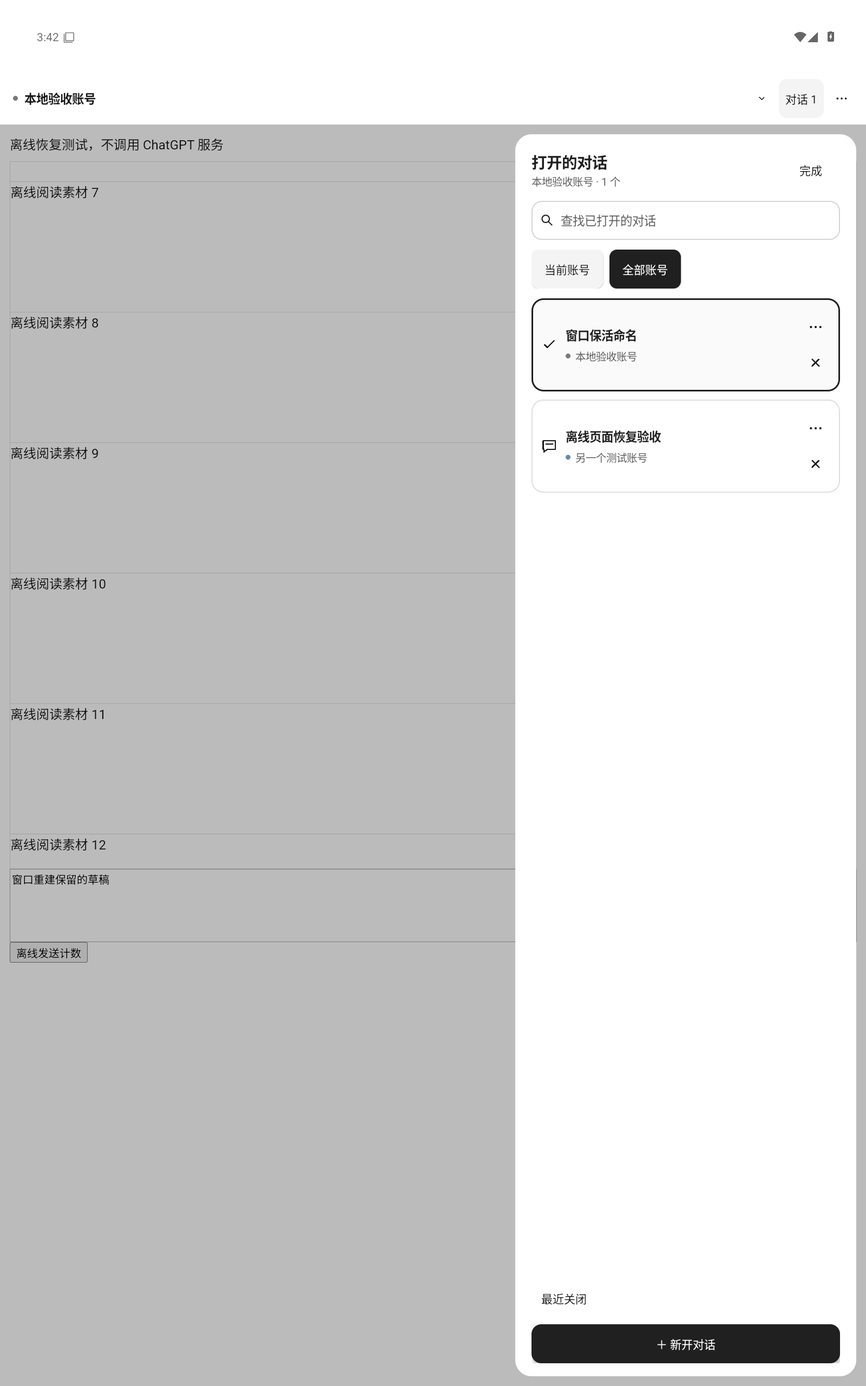
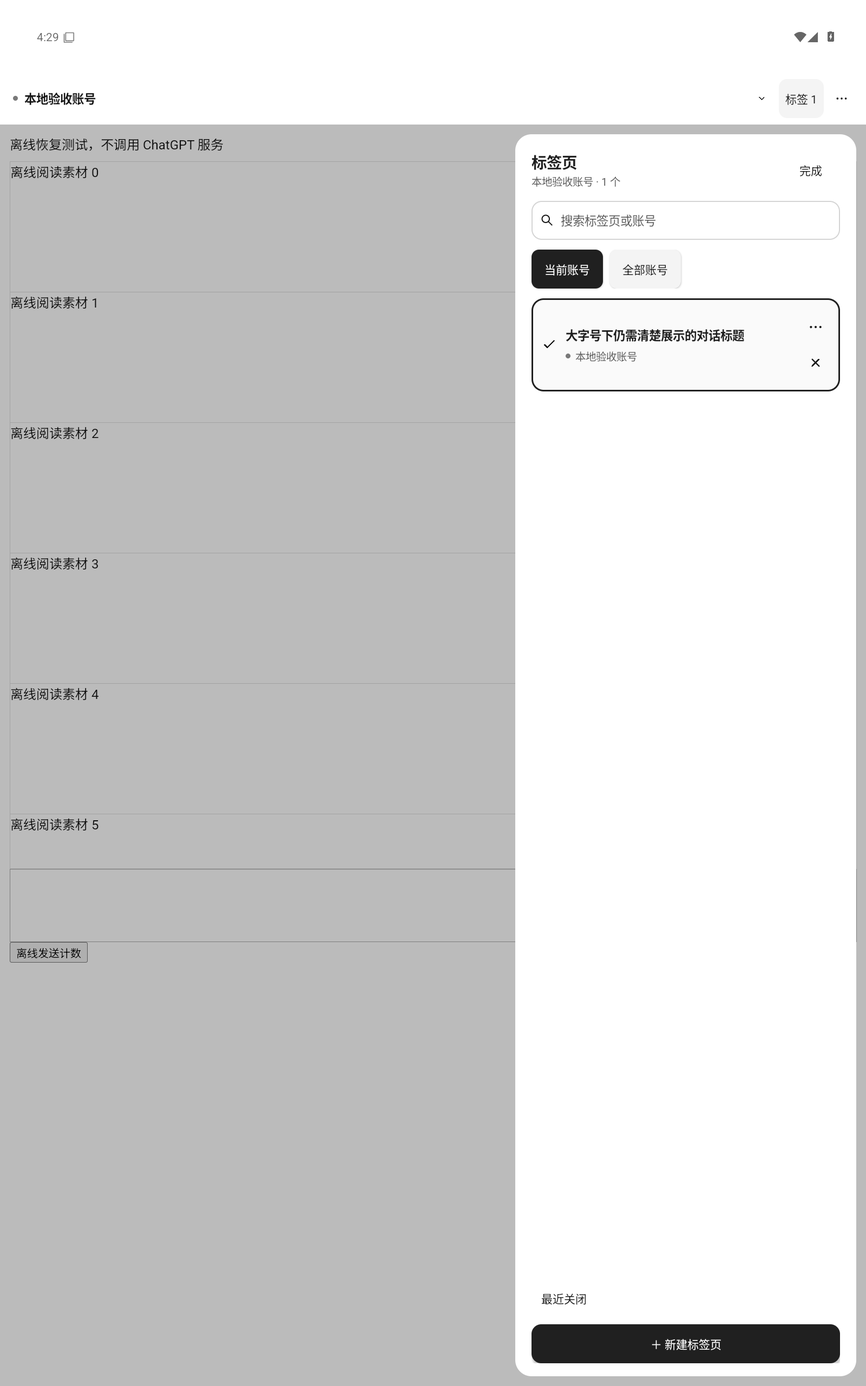
Publish Android alpha.19 and prepare per-platform website downloads

diff --git a/site/index.html b/site/index.html
@@ -74,7 +74,7 @@
         <div class="hero-topline">
           <span><i class="status-dot"></i> PERSONAL WORKSPACE, REDEFINED.</span
           ><span class="hero-build"
-            >CHATGPT STUDIO · v3.0.0-alpha.18 / MAC · WINDOWS · ANDROID <span>↗</span></span
+            >CHATGPT STUDIO · MAC / WINDOWS v3.0.0-alpha.18 · ANDROID v3.0.0-alpha.19 <span>↗</span></span
           >
         </div>
         <div class="hero-grid">
@@ -243,7 +243,7 @@
           </div>
           <div class="stage-caption">
             <span id="product-caption"
-              >Windows · 已安装客户端 / 未登录 ChatGPT</span
+              >Windows · 历史 alpha.11 实际窗口 / 未登录 ChatGPT</span
             ><span>NO ADDRESS BAR. JUST YOUR WORKSPACE.</span>
           </div>
         </div>
@@ -427,18 +427,18 @@
             <article class="download-card" data-os="android">
               <div class="download-card-top">
                 <svg class="os-icon"><use href="#android" /></svg
-                ><span class="version">v3.0.0-alpha.18</span>
+                ><span class="version">v3.0.0-alpha.19</span>
               </div>
               <h3>Android <span>手机 / 平板</span></h3>
               <p class="system-requirement">
                 Android 9+ · 支持多档案的 WebView
               </p>
               <p class="platform-description">
-                直接进入网页，对话清单按需展开。<br />独立账号、资产工作台与草稿恢复。
+                直接进入网页，标签管理按需展开。<br />独立账号、资产工作台与草稿恢复。
               </p>
               <a
                 class="button button-platform"
-                href="https://github.com/ForceMind/ChatGPT/releases/download/v3.0.0-alpha.18/ChatGPT-Profiles-3.0.0-alpha.18-android.apk"
+                href="https://github.com/ForceMind/ChatGPT/releases/download/v3.0.0-alpha.19/ChatGPT-Profiles-3.0.0-alpha.19-android.apk"
                 ><span>下载 APK 安装包</span><svg><use href="#download" /></svg
               ></a>
               <div class="download-secondary">
@@ -446,7 +446,7 @@
               </div>
               <details class="accelerated-download">
                 <summary>国内用户加速下载 <span aria-hidden="true">+</span></summary>
-                <div class="accelerated-links"><a href="https://gh-proxy.org/https://github.com/ForceMind/ChatGPT/releases/download/v3.0.0-alpha.18/ChatGPT-Profiles-3.0.0-alpha.18-android.apk" rel="noopener noreferrer" referrerpolicy="no-referrer">APK 安装包 <span aria-hidden="true">↗</span></a></div>
+                <div class="accelerated-links"><a href="https://gh-proxy.org/https://github.com/ForceMind/ChatGPT/releases/download/v3.0.0-alpha.19/ChatGPT-Profiles-3.0.0-alpha.19-android.apk" rel="noopener noreferrer" referrerpolicy="no-referrer">APK 安装包 <span aria-hidden="true">↗</span></a></div>
                 <p>通过第三方 gh-proxy.org 下载；原始下载入口保留。安装前请核对下方 SHA-256，加速服务可能暂时不可用。</p>
               </details>
               <div class="platform-note">
@@ -457,7 +457,7 @@
                 <summary>版本说明与文件校验 <span>+</span></summary>
                 <p>
                   <a
-                    href="https://github.com/ForceMind/ChatGPT/releases/tag/v3.0.0-alpha.18"
+                    href="https://github.com/ForceMind/ChatGPT/releases/tag/v3.0.0-alpha.19"
                     target="_blank"
                     rel="noopener noreferrer"
                     >查看发布说明 ↗</a
@@ -467,11 +467,11 @@
                   <span>APK · SHA-256</span
                   ><button
                     type="button"
[2 lines of base64/hex data omitted]
                   >
                     复制</button
                   ><code
-                    >3d3bda26cf4cd0b699a94a0c6ae17aa86a185cd15c342e8338fbffd32eaf460f</code
+                    >0e65cd85162b6cbab005e5d571e9856f91fc7dae1d2b4437426cebd85bc9e47f</code
                   >
                 </div>
               </details>
@@ -552,7 +552,8 @@
           <li data-milestone="studio-alpha16"><div class="milestone-version"><strong>ChatGPT Studio</strong>2026.10.24 · 三端 alpha.16</div><div class="milestone-copy"><h3>新名字，继续已有的工作。</h3><p>三端统一名称。桌面包含七阶段文件任务、富文本写入校验、资产双击与右键管理；Android 补齐系统图标适配。保留原应用标识、加密身份和登录数据目录，安装文件中的旧名称用于升级兼容。通过平台 CI、Mac 完整 ZIP 安装与 Windows 安装 / 退出 / 卸载保留数据检查；Android 沿用固定证书。真实账号附件发送与 Android 首页 / 真机流程仍待人工验收。</p><a href="https://github.com/ForceMind/ChatGPT/releases/tag/v3.0.0-alpha.16" target="_blank" rel="noopener noreferrer">查看 alpha.16 发布记录 ↗</a></div><span class="milestone-status">公开预发布</span></li>
           <li data-milestone="studio-alpha17"><div class="milestone-version"><strong>标签与文件工作空间</strong>2026.10.25 · 三端 alpha.17</div><div class="milestone-copy"><h3>页面留在原处，文件有清楚的去向。</h3><p>Android 上线手机 / 平板卡片总览、账号筛选、搜索与标签管理，窗口重建保留网页，加入可选的通知后台任务和保活诊断；修正隐藏标签的执行节流。桌面完善交互 HTML、音视频、文本 / 代码与系统应用打开。全部 120 个 Skill 定义及代表性附件流程完成隔离检查；兼容内核下完成 8 页 330 秒、锁屏 / 省电 / 网络与进程重启恢复。保留既有账号与签名身份，实站和厂商真机仍单独验收。</p><a href="https://github.com/ForceMind/ChatGPT/releases/tag/v3.0.0-alpha.17" target="_blank" rel="noopener noreferrer">查看 alpha.17 发布记录 ↗</a></div><span class="milestone-status">公开预发布</span></li>
           <li data-milestone="studio-alpha18"><div class="milestone-version"><strong>清晰界面与沉浸对话</strong>2026.10.25 · 三端 alpha.18</div><div class="milestone-copy"><h3>专注网页，需要时再展开工具。</h3><p>三端统一 App 自有界面的字号与对比度，桌面窄窗详情使用抽屉；恢复 Mac 顶部菜单栏图标。Android 默认进入网页，仅保留账号、对话和更多，对话清单按需展开，边框完整，最近关闭用文字说明；移除首页底栏和普通菜单的开发诊断。前台切换已加载页面复用原网页、草稿、滚动和生成上下文，无需后台服务。保留账号数据和签名身份，进程终止后仍需加载一次再恢复，实站与厂商真机另行验收。</p><a href="https://github.com/ForceMind/ChatGPT/releases/tag/v3.0.0-alpha.18" target="_blank" rel="noopener noreferrer">查看 alpha.18 发布记录 ↗</a></div><span class="milestone-status">公开预发布</span></li>
-        </ol><p class="milestone-note">当前三端公开预发布版均为 alpha.18。Android 继续使用 System WebView，版本达标之外还需多档案能力；独立环境 PoC 未替换现有登录空间。真实账号业务与真机验收另行记录。</p>
+          <li data-milestone="studio-alpha19"><div class="milestone-version"><strong>Android 最小文案统一</strong>2026.10.26 · Android alpha.19</div><div class="milestone-copy"><h3>保持原有体验，把标签说清楚。</h3><p>将 App 外壳中的“对话 N”统一为“标签 N”，管理面板、搜索、新建、固定、重命名和关闭使用“标签页”称呼。账号与入口位置、布局、原 ChatGPT 网页、登录和恢复逻辑沿用 alpha.18。手机和平板的三档字号、附件夹具和标签复用检查通过；沿用同一 Android 证书。Mac 与 Windows 继续提供 alpha.18，真实账号与厂商真机验收单独记录。</p><a href="https://github.com/ForceMind/ChatGPT/releases/tag/v3.0.0-alpha.19" target="_blank" rel="noopener noreferrer">查看 Android alpha.19 发布记录 ↗</a></div><span class="milestone-status">公开预发布</span></li>
+        </ol><p class="milestone-note">macOS 与 Windows 的公开预发布版为 alpha.18，Android 为 alpha.19。各平台按下载卡片标注独立更新。Android 继续使用 System WebView，版本达标之外还需多档案能力；独立环境 PoC 未替换现有登录空间。真实账号业务与真机验收另行记录。</p>
       </section>
 
       <section
@@ -627,8 +628,8 @@
             </p>
           </details>
           <details>
-            <summary>Android 切换对话会重新加载吗？<span>+</span></summary>
-            <p>App 运行期间切换已打开的对话，会复用原网页，保留草稿、阅读位置和正在生成的上下文，无需开启后台服务。打开对话清单也不会卸载当前网页。真正终止进程后需重新加载，再恢复已保存的草稿与位置；系统回收或网页服务本身也可能中断连接，应用不会自动重发消息。</p>
+            <summary>Android 切换标签页会重新加载吗？<span>+</span></summary>
+            <p>App 运行期间切换已打开的标签页，会复用原网页，保留草稿、阅读位置和正在生成的上下文，无需开启后台服务。打开对话清单也不会卸载当前网页。真正终止进程后需重新加载，再恢复已保存的草稿与位置；系统回收或网页服务本身也可能中断连接，应用不会自动重发消息。</p>
           </details>
           <details>
             <summary>如何校验下载、更新或清除账号？<span>+</span></summary>

diff --git a/desktop/tests/branding.e2e.ts b/desktop/tests/branding.e2e.ts
@@ -38,11 +38,20 @@ test('Studio website renders canonical pages and preserves legacy update feeds',
  const origin=publicOrigin||'http://127.0.0.1:'+address.port,entry=path.join(root,'main.cjs');
  const feed=JSON.parse(readFileSync(path.join(site,'updates/macos.json'),'utf8'));expect(validManifest(feed)).toBe(true);
  const release=JSON.parse(readFileSync(path.join(desktop,'../docs/releases',feed.version+'.json'),'utf8'));
+ const androidVersion=readFileSync(path.join(site,'index.html'),'utf8').match(/<article\b[^>]*data-os="android"[^>]*>[\s\S]*?<span class="version">v([^<]+)<\/span>/)?.[1];
+ expect(androidVersion).toMatch(/^\d+\.\d+\.\d+-alpha\.\d+$/);
+ const android=JSON.parse(readFileSync(path.join(desktop,'../docs/releases',androidVersion+'-android.json'),'utf8'));
+ expect(android.version).toBe(androidVersion);
+ release.artifacts=release.artifacts.filter((item:{platform:string})=>item.platform!=='android').concat({...android.artifact,platform:'android',url:'https://github.com/ForceMind/ChatGPT/releases/download/v'+android.version+'/'+android.artifact.file});
+ expect(release.artifacts).toHaveLength(5);
+ const platformVersions={macos:feed.version,windows:feed.version,android:android.version};
  writeFileSync(entry,"const {app,BrowserWindow}=require('electron');require('node:fs').mkdirSync(process.env.STUDIO_SITE_DATA,{recursive:true});app.setPath('userData',process.env.STUDIO_SITE_DATA);app.whenReady().then(()=>{const win=new BrowserWindow({width:1440,height:1000,webPreferences:{sandbox:true,contextIsolation:true,nodeIntegration:false}});win.loadURL(process.env.STUDIO_SITE_ORIGIN)});");
  try{
   app=await electron.launch({args:[entry],env:{...process.env,STUDIO_SITE_DATA:path.join(root,'data'),STUDIO_SITE_ORIGIN:origin}});const page=await app.firstWindow();const errors:string[]=[];page.on('pageerror',error=>errors.push(error.message));
   await expect(page).toHaveTitle(/ChatGPT Studio/);await expect(page.getByRole('link',{name:'ChatGPT Studio 首页',exact:true})).toBeVisible();
   await expect(page.locator('.hero-build')).toContainText(feed.version);
+  await expect(page.locator('.hero-build')).toContainText(android.version);
+  for(const [platform,version] of Object.entries(platformVersions))await expect(page.locator('article[data-os="'+platform+'"] .version')).toHaveText('v'+version);
   const canonical='https://chatgpt-studio.pages.dev';
   if(publicOrigin){
    await expect.poll(()=>new URL(page.url()).origin).toBe(canonical);
@@ -76,7 +85,7 @@ test('Studio website renders canonical pages and preserves legacy update feeds',
   await page.screenshot({path:info.outputPath('studio-downloads-1440.png')});
   const remoteFeed=await app.evaluate(async({session},origin)=>{const response=await session.fromPartition('studio-feed-public-check').fetch(origin+'/updates/macos.json',{credentials:'omit',redirect:'error',headers:{Accept:'application/json'}});return{status:response.status,contentType:response.headers.get('content-type'),text:await response.text()};},origin);
   expect(remoteFeed.status).toBe(200);expect(remoteFeed.contentType).toContain('application/json');expect(JSON.parse(remoteFeed.text)).toEqual(feed);
-  writeFileSync(info.outputPath('site-verification.json'),JSON.stringify({origin,landedOrigin:new URL(page.url()).origin,version:feed.version,downloadFiles:release.artifacts.length,acceleratedFiles:release.artifacts.length,widths:[1440,390],checksumCopy:true,credentiallessElectronFeed:true,legacyPageRedirect:!!publicOrigin&&publicOrigin!==canonical,errors}));
+  writeFileSync(info.outputPath('site-verification.json'),JSON.stringify({origin,landedOrigin:new URL(page.url()).origin,platformVersions,macosUpdateVersion:feed.version,downloadFiles:release.artifacts.length,acceleratedFiles:release.artifacts.length,widths:[1440,390],checksumCopy:true,credentiallessElectronFeed:true,legacyPageRedirect:!!publicOrigin&&publicOrigin!==canonical,errors}));
   expect(errors).toEqual([]);
  }finally{await app?.close().catch(()=>{});server.closeAllConnections();await new Promise<void>(r=>server.close(()=>r()));rmSync(root,{recursive:true,force:true});}
 });

diff --git a/site/app.js b/site/app.js
@@ -16,8 +16,8 @@ const platforms = {
   },
   android: {
     image: "android-tabs.png",
-    caption: "Android alpha.18 · 原生对话清单 / 模拟器 · 本地测试账号",
-    alt: "Android alpha.18 客户端原生对话清单截图：账号筛选、搜索、完整边框、最近关闭和新开对话。背后网页为本地测试素材，非真实 ChatGPT 首页。",
+    caption: "Android alpha.19 · 原生标签页 / 模拟器 · 本地测试账号",
+    alt: "Android alpha.19 客户端原生标签页截图：账号筛选、搜索、完整边框、最近关闭和新建标签页。背后网页为本地测试素材，非真实 ChatGPT 首页。",
     width: 1080,
     height: 2400,
     kind: "ANDROID · ACTUAL APP / LOCAL FIXTURES",
@@ -25,9 +25,9 @@ const platforms = {
 };
 const androidViews = {
   tabs: platforms.android,
-  tablet: {...platforms.android,image:"android-tablet-tabs.png",width:1600,height:2560,caption:"Android alpha.18 · 平板原生对话清单 / 模拟器 · 本地测试账号",alt:"Android alpha.18 平板原生右侧对话清单，含账号筛选、搜索和管理入口；背后网页为测试素材，并非真实 ChatGPT 首页。"},
-  assets: {...platforms.android,image:"android-assets.png",caption:"Android alpha.18 · 资产库 / 模拟器 · 本地示例文件",alt:"Android alpha.18 资产库原生截图：独立账号下的本地 HTML 示例文件，带搜索、导入和交给 GPT 入口；采集于 Android 15 模拟器。"},
-  skills: {...platforms.android,image:"android-skills.png",caption:"Android alpha.18 · 120 个 Skill / 模拟器 · 本地示例账号",alt:"Android 客户端能力库实际截图：120 个项目 Skill、原生搜索与任务说明；采集于 Android 15 模拟器，尚无预置智能体。"},
+  tablet: {...platforms.android,image:"android-tablet-tabs.png",width:1600,height:2560,caption:"Android alpha.19 · 平板原生标签页 / 模拟器 · 本地测试账号",alt:"Android alpha.19 平板原生右侧标签列表，含账号筛选、搜索和管理入口；背后网页为测试素材，并非真实 ChatGPT 首页。"},
+  assets: {...platforms.android,image:"android-assets.png",caption:"Android alpha.19 · 资产库 / 模拟器 · 本地示例文件",alt:"Android alpha.19 资产库原生截图：独立账号下的本地 HTML 示例文件，带搜索、导入和交给 GPT 入口；采集于 Android 15 模拟器。"},
+  skills: {...platforms.android,image:"android-skills.png",caption:"Android alpha.19 · 120 个 Skill / 模拟器 · 本地示例账号",alt:"Android 客户端能力库实际截图：120 个项目 Skill、原生搜索与任务说明；采集于 Android 15 模拟器，尚无预置智能体。"},
 };
 const tabs = [...document.querySelectorAll("[data-platform]")];
 const image = document.querySelector("#product-image");

diff --git a/android/ui-preview/index.html b/android/ui-preview/index.html
@@ -22,7 +22,7 @@
 <div class="app-toast" id="app-toast" role="status" hidden></div>
 <div class="system-gesture" aria-hidden="true"><i></i></div>
 </section>
-<aside class="design-notes"><p class="eyebrow">以已发布的 alpha.18 为基线</p><h1>保留布局，只改必要细节。</h1><p>账号、标签入口和更多保持原位；列表、最近关闭及已有工具入口沿用。</p><div class="try-note"><strong>这轮的最小差异</strong><ul><li>“对话 2”改为“标签 2”。</li><li>“打开的对话”改为“标签页”。</li><li>标签管理的搜索、新建、关闭统一叫“标签页”。</li></ul></div><p class="scope">ChatGPT 首页、侧栏和输入框继续使用原网页。这份预览默认只标示网页区域；需要查看交互背景时，可在外面的评审工具开启“显示网页示意”。</p><p class="scope">本轮尚未修改安装版或线上发布。示例账号与文件只用于评审，不会登录、上传或发送。</p><p id="preview-feedback" role="status"></p></aside>
+<aside class="design-notes"><p class="eyebrow">以已发布的 alpha.18 为基线</p><h1>保留布局，只改必要细节。</h1><p>账号、标签入口和更多保持原位；列表、最近关闭及已有工具入口沿用。</p><div class="try-note"><strong>这轮的最小差异</strong><ul><li>“对话 2”改为“标签 2”。</li><li>“打开的对话”改为“标签页”。</li><li>标签管理的搜索、新建、关闭统一叫“标签页”。</li></ul></div><p class="scope">ChatGPT 首页、侧栏和输入框继续使用原网页。这份预览默认只标示网页区域；需要查看交互背景时，可在外面的评审工具开启“显示网页示意”。</p><p class="scope">标签文案已随 Android alpha.19 发布。这里仍是合成评审稿，示例账号与文件不会登录、上传或发送。</p><p id="preview-feedback" role="status"></p></aside>
 </main>
 </body>
 </html>

diff --git a/android/ui-preview/app.js b/android/ui-preview/app.js
@@ -83,4 +83,4 @@ document.addEventListener('keydown',event=>{
  if(event.key==='Tab'&&!$('#overlay').hidden){const controls=[...$('#overlay').querySelectorAll('button,input,textarea,select')].filter(e=>e.getClientRects().length);if(event.shiftKey&&document.activeElement===controls[0]){event.preventDefault();controls.at(-1)?.focus();}else if(!event.shiftKey&&document.activeElement===controls.at(-1)){event.preventDefault();controls[0]?.focus();}}
 });
 const streamTimer=setInterval(()=>{const tab=tabs.find(t=>t.id==='p2');if(!tab||tab.tick>=5){clearInterval(streamTimer);return;}tab.tick++;tab.answer+='\n\n'+['先确认每一段内容要回答哪个问题。','把主要操作放在容易找到的位置。','正文和辅助信息使用清楚的层次。','长内容可以滚动，不靠缩小文字容纳。','最后检查实际使用时的完整流程。'][tab.tick-1];const answer=pages.get(tab.id)?.querySelector('.assistant-message');if(answer)answer.textContent=tab.answer;},2400);
-renderHeader();renderPages();feedback('这是设计评审预览。仅预览局部文案调整，安装版和现有登录数据没有改变。');
+renderHeader();renderPages();feedback('这是设计评审预览。标签文案已随 Android alpha.19 发布；本页仅演示外壳，不连接真实账号。');

diff --git a/README.en.md b/README.en.md
@@ -4,7 +4,7 @@
   <p>Independent accounts. Immersive browsing. Local asset workflows.</p>
   <p><a href="README.md">简体中文</a> · <strong>English</strong></p>
   <p>
-    <a href="https://github.com/ForceMind/ChatGPT/releases/tag/v3.0.0-alpha.18"><img alt="Latest prerelease" src="https://img.shields.io/github/v/release/ForceMind/ChatGPT?include_prereleases&amp;sort=semver&amp;label=pre-release&amp;labelColor=171717&amp;color=555555" /></a>
+    <a href="https://github.com/ForceMind/ChatGPT/releases/tag/v3.0.0-alpha.19"><img alt="Latest prerelease" src="https://img.shields.io/github/v/release/ForceMind/ChatGPT?include_prereleases&amp;sort=semver&amp;label=pre-release&amp;labelColor=171717&amp;color=555555" /></a>
     <a href="https://github.com/ForceMind/ChatGPT/actions/workflows/android.yml"><img alt="Android CI" src="https://img.shields.io/github/actions/workflow/status/ForceMind/ChatGPT/android.yml?branch=main&amp;label=Android%20CI&amp;labelColor=171717&amp;color=555555" /></a>
     <img alt="Electron 44.9" src="https://img.shields.io/badge/Electron-44.9-555555?logo=electron&amp;logoColor=white&amp;labelColor=171717" />
     <img alt="Java 17" src="https://img.shields.io/badge/Java-17-555555?labelColor=171717" />
@@ -15,7 +15,7 @@
 
 ChatGPT Studio brings independent ChatGPT account spaces, tabs, downloaded assets, previews, conversions and reviewed file tasks into one application. Launch directly into the website with a white, gray and black interface and no address bar. Each device signs in independently; no OpenAI API key is required.
 
-> Previously named **ChatGPT Profiles**. The current public prerelease is **3.0.0-alpha.18** on all three supported platforms. Legacy filenames, internal identifiers and data locations are retained for upgrade compatibility.
+> Previously named **ChatGPT Profiles**. The current public prereleases are **3.0.0-alpha.18** for macOS/Windows and **3.0.0-alpha.19** for Android. Platforms update independently. Legacy filenames, internal identifiers and data locations are retained for upgrade compatibility.
 
 ![Actual historical macOS window, before the rename](docs/images/macos-immersive.png)
 
@@ -62,7 +62,7 @@ Devices do not synchronize sign-in credentials. Alternative Android engines rema
 | --- | --- | --- | --- |
 | macOS · Apple Silicon | 3.0.0-alpha.18 | [DMG](https://github.com/ForceMind/ChatGPT/releases/download/v3.0.0-alpha.18/ChatGPT-Profiles-3.0.0-alpha.18-mac-arm64.dmg) · [ZIP](https://github.com/ForceMind/ChatGPT/releases/download/v3.0.0-alpha.18/ChatGPT-Profiles-3.0.0-alpha.18-mac-arm64.zip) | macOS 13+ |
 | Windows · x64 | 3.0.0-alpha.18 | [EXE](https://github.com/ForceMind/ChatGPT/releases/download/v3.0.0-alpha.18/ChatGPT-Profiles-3.0.0-alpha.18-windows-x64-setup.exe) · [Portable ZIP](https://github.com/ForceMind/ChatGPT/releases/download/v3.0.0-alpha.18/ChatGPT-Profiles-3.0.0-alpha.18-windows-x64.zip) | Windows 10/11, 64-bit |
-| Android · Phone/tablet | 3.0.0-alpha.18 | [APK](https://github.com/ForceMind/ChatGPT/releases/download/v3.0.0-alpha.18/ChatGPT-Profiles-3.0.0-alpha.18-android.apk) | Android 9+, WebView with multi-profile support |
+| Android · Phone/tablet | 3.0.0-alpha.19 | [APK](https://github.com/ForceMind/ChatGPT/releases/download/v3.0.0-alpha.19/ChatGPT-Profiles-3.0.0-alpha.19-android.apk) | Android 9+, WebView with multi-profile support |
 
 **macOS:** open the DMG and drag the app into Applications. Current packages are ad-hoc signed and not notarized. If macOS blocks the first launch, verify the source/checksum and consult [Apple's installation guidance](https://support.apple.com/en-us/102445).
 
@@ -72,11 +72,15 @@ Devices do not synchronize sign-in credentials. Alternative Android engines rema
 
 The [website](https://chatgpt-studio.pages.dev/) provides GitHub downloads and optional third-party acceleration links. Compare downloads with `SHA256SUMS.txt` in the Release. The current version is a **prerelease**; stable-only tools may report no Latest release. The version badge above includes prereleases, and the table links directly to the published assets.
 
-### What changed in alpha.18
+### Android alpha.19
+
+This update only makes tab terminology consistent. Account controls, layout, navigation, the original ChatGPT webpage and runtime behavior are retained from alpha.18. Tab counts, management, search, new tabs, pinning, renaming and closing now use tab labels. See the [Android build/native verification record](docs/releases/3.0.0-alpha.19-android.json).
+
+### Desktop alpha.18
 
 App-owned desktop UI now uses clearer type and contrast, with 15px body text, 14px supporting text and a 13px label floor. Narrow windows use a details drawer. The macOS menu bar icon is restored for window, account, workbench and update actions.
 
-Android opens directly into the webpage with account, conversations and more controls. A searchable conversation sheet supports pinning, renaming, sorting, closing and restoring recent tabs. Browser-style bottom controls and developer diagnostics are removed from normal menus. Foreground switches reuse the original webpage, draft, scroll and generation context without a background service. Window recreation reuses pages; process termination requires reloading before restoring saved drafts and positions. See the [release manifest](docs/releases/3.0.0-alpha.18.json) for exact binaries, sources and signatures.
+Android opens directly into the webpage with account, tabs and more controls. A searchable tab sheet supports pinning, renaming, sorting, closing and restoring recent tabs. Browser-style bottom controls and developer diagnostics are removed from normal menus. Foreground switches reuse the original webpage, draft, scroll and generation context without a background service. Window recreation reuses pages; process termination requires reloading before restoring saved drafts and positions. See the [desktop release manifest](docs/releases/3.0.0-alpha.18.json) and [Android alpha.19 record](docs/releases/3.0.0-alpha.19-android.json) for exact binaries, sources and signatures.
 
 macOS checks for updates at launch and at noon in Shanghai time. After confirmation it downloads and verifies a complete ZIP. Installation can run immediately, on exit or after the app has been idle under the configured safeguards. Native application updates require a restart; delta updates are not implemented. Windows and Android currently update manually.
 
@@ -178,6 +182,7 @@ Cloudflare Pages uses Direct Upload; a Git push does not deploy the site automat
 | --- | --- |
 | Real macOS account upload/first-message/single-send acceptance | Deferred manual acceptance; isolated flows pass |
 | Android real homepage, accounts, voice/files and vendor devices | Deferred manual acceptance; website images are labeled native fixtures |
+| Android alpha.19 tab terminology | Published; layout/runtime retained; [publication/online record](docs/releases/3.0.0-alpha.19-publication.json) |
 | Alpha.18 installers, immersive Android, readable UI and macOS menu bar | Published; [publication/online record](docs/releases/3.0.0-alpha.18-publication.json) |
 | Windows offline snapshots/auto-updates; complete Android offline snapshots | Future batch |
 | Android per-account locale/timezone engine migration | Separate PoC; regular engine is unchanged |

diff --git a/MACOS_MIGRATION_PLAN.md b/MACOS_MIGRATION_PLAN.md
@@ -730,3 +730,10 @@
 - alpha.19 候选源 cfd2ed667fbc6c8fcf44f9a0854b2b97e1a52c1b 已推送开发分支。构建 40268493816 成功：66 项单元、0 失败 / 错误 / 跳过，Lint 0 错误 / 44 警告。原生 40268559379 成功：Android 15 / WebView 124.0.6367.219，手机和平板各 3 项、0 失败 / 错误 / 跳过；覆盖 1.0 / 1.3 / 2.0 字号、13sp / 4.5:1 / 裁切 / 按钮可达性、原有真实文件夹具与 Activity / 标签复用。两组原始 XML 和字号报告已核对，普通 / 大字号实际截图已查看；不重新声称验证所有系统或真实账号。
 - CI 生成的正式 APK 只在本机以既有证书签名，versionCode 3000019 / alpha.19，包名与显示名、v3 及原证书摘要均验证。APK 7335383 字节，SHA-256 0e65cd85162b6cbab005e5d571e9856f91fc7dae1d2b4437426cebd85bc9e47f；发布包不含独立调试服务器和评审预览。临时官方工具校验后使用，并已移除约 147 MB 逻辑工具文件，私钥未复制或上传。
 - 候选草稿 ID 423861858，目标为同一候选源，https://github.com/ForceMind/ChatGPT/releases/tag/untagged-cf5b69a91e1859ebff2d 。APK 与 SHA256SUMS.txt 两个资产的字节数 / GitHub 服务端摘要均核对。创建后首次列表未返回新草稿，随后只读定位准确 ID 再上传，没有重复创建或覆盖。正式 Release、main 与官网没有更新：main 回读仍为 e783eb5e9dd14213af338313b8799feea16b3d3c，Mac 清单仍为 alpha.18。本批结果集中在 docs/releases/3.0.0-alpha.19-android.json；一张必要原生测试截图已保留，其他临时报告 / APK 缓存在无句柄后清理。原 4187 评审服务继续保留，现有账号、登录和加密恢复数据未访问或修改。
+
+## Android alpha.19 公开发布与官网同步（2026-10-26）
+
+- 用户在完成本机 Mac 更新和剩余范围说明后要求继续。当前迭代先公开已验证的 Android alpha.19 候选并同步下载渠道；不把此阶段等同全部路线图完成，不重做布局或重打其他平台包。Mac / Windows 继续 alpha.18，Mac 更新与旧站兼容 JSON 的基准 SHA-256 均为 8c30c55cc56511c162af21130606ee41220ee12e5985da311c229433eacf60bb，要求逐字节保留。
+- 已重新核对构建 40268493816、原生 40268559379，均成功且 head 为 cfd2ed667fbc6c8fcf44f9a0854b2b97e1a52c1b；公开前验证草稿 ID 423861858、目标源码、APK 与摘要两个资产。该唯一草稿已于 2026-10-26T06:52:18Z 转为公开预发布 https://github.com/ForceMind/ChatGPT/releases/tag/v3.0.0-alpha.19 ，沿用原 7335383 字节 APK 与服务端 SHA-256 0e65cd85162b6cbab005e5d571e9856f91fc7dae1d2b4437426cebd85bc9e47f，没有再打包或签名。
+- 本轮官网只更新 Android 卡片 / 国内加速 / 摘要、四张同源原生 CI 图及里程碑；主视觉说明各平台版本，Mac / Windows 下载仍为 alpha.18。中英文 README 与原评审页状态同步，历史发布记录保留。现有官网测试原来从 Mac 清单版本推导全部五包，已最小调整为保留桌面 manifest 并使用 Android 下载卡版本对应的既有签名收据验证 APK；分别断言三平台版本、五个下载和加速及摘要复制，继续检查 Mac 清单禁重定向。只有网站测试变更，App 源码与包输入不变。
+- Git 同步范围为 ForceMind/ChatGPT 的 codex/macos-assets-workbench，网站 / 说明 / 必要发布收据与对应浏览器测试。先在 Actions 验证源站渲染，通过后正常快进 main 并部署现有 chatgpt-studio Pages 项目；旧站配置与 Mac JSON 不变时不重部署。当前公开 APK 已完成，官网与 main 仍待本轮验证 / 部署，结果将在本记录和 docs/releases/3.0.0-alpha.19-publication.json 更新。

diff --git a/android/ui-preview/README.md b/android/ui-preview/README.md
@@ -1,6 +1,6 @@
 # Android 最小差异评审预览
 
-本目录是基于已发布 alpha.18 的局部调整评审稿。alpha.18 的沉浸布局已经接入原生 App；本轮只统一标签文案，账号、标签入口、更多和列表布局沿用。用户确认后，这组文案已接入 alpha.19 候选，完成 Actions 原生检查和原证书签名，按候选草稿交付。
+本目录是基于 alpha.18 的局部调整评审稿。沉浸布局已接入原生 App；本轮只统一标签文案，账号、标签入口、更多和列表布局沿用。这组文案已随 Android alpha.19 公开预发布，完成 Actions 原生检查并沿用原证书。
 
 默认用留白标示“ChatGPT 网页保持原样”，避免把模拟首页误认为网页改版。需要查看交互背景时，可在设备外的评审工具开启“显示网页示意”；其中的首页、消息和输入框是合成示例。留白和评审工具都不进入正式 App。
 
@@ -28,7 +28,7 @@ node android/ui-preview/serve.mjs
 
 ## 范围与验证边界
 
-用户在 alpha.18 发布后要求遵循最小设计、沿用现有体验；涉及布局或操作路径的变化先提供最小差异。用户已确认本轮预览并要求继续；当前交付为 Android alpha.19 候选，公开安装包和官网仍保持 alpha.18。
+用户在 alpha.18 发布后要求遵循最小设计、沿用现有体验；涉及布局或操作路径的变化先提供最小差异。用户已确认并继续发布本轮变更；Android 当前公开版为 alpha.19，Mac 与 Windows 为 alpha.18。网页留白和设备外的评审工具只存在于本预览。
 
 alpha.19 的构建、原生字号 / 附件 / 标签复用、签名及候选入口见[候选记录](../../docs/releases/3.0.0-alpha.19-android.json)。alpha.18 的系统与长期保留检查见 docs/releases/3.0.0-alpha.18-ci.json（相对仓库根目录）。本预览的模拟交互不替代这些原生证据，也不代表真实 ChatGPT 验收。
 
